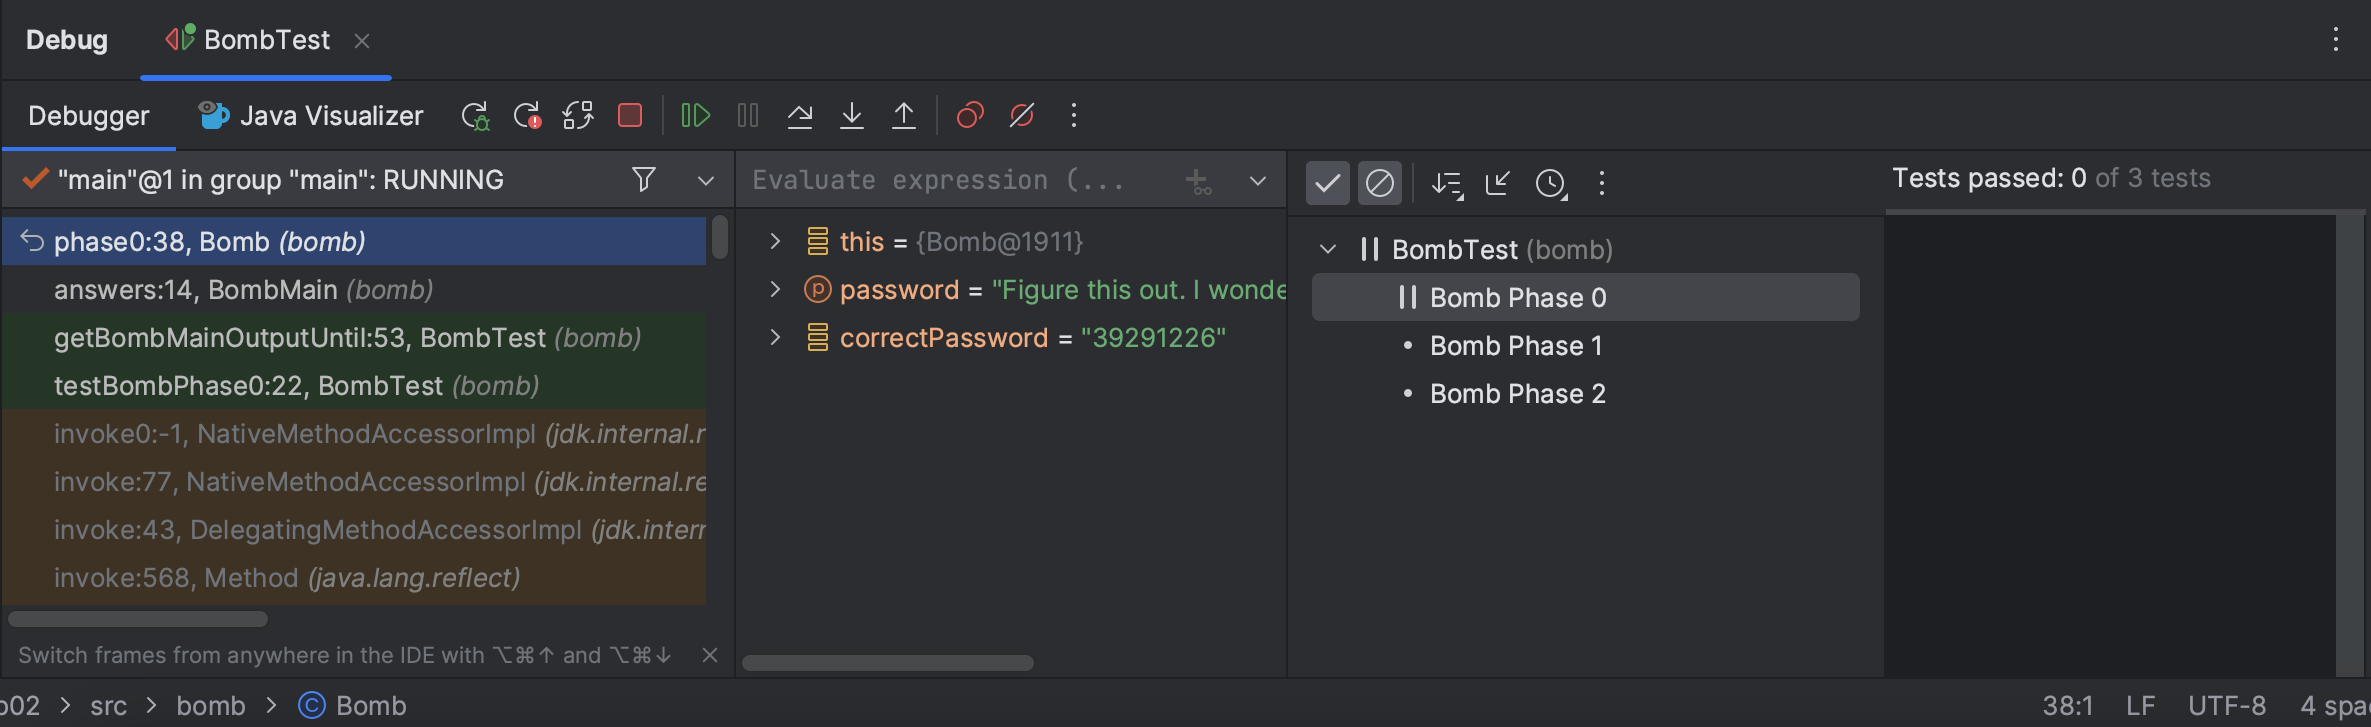
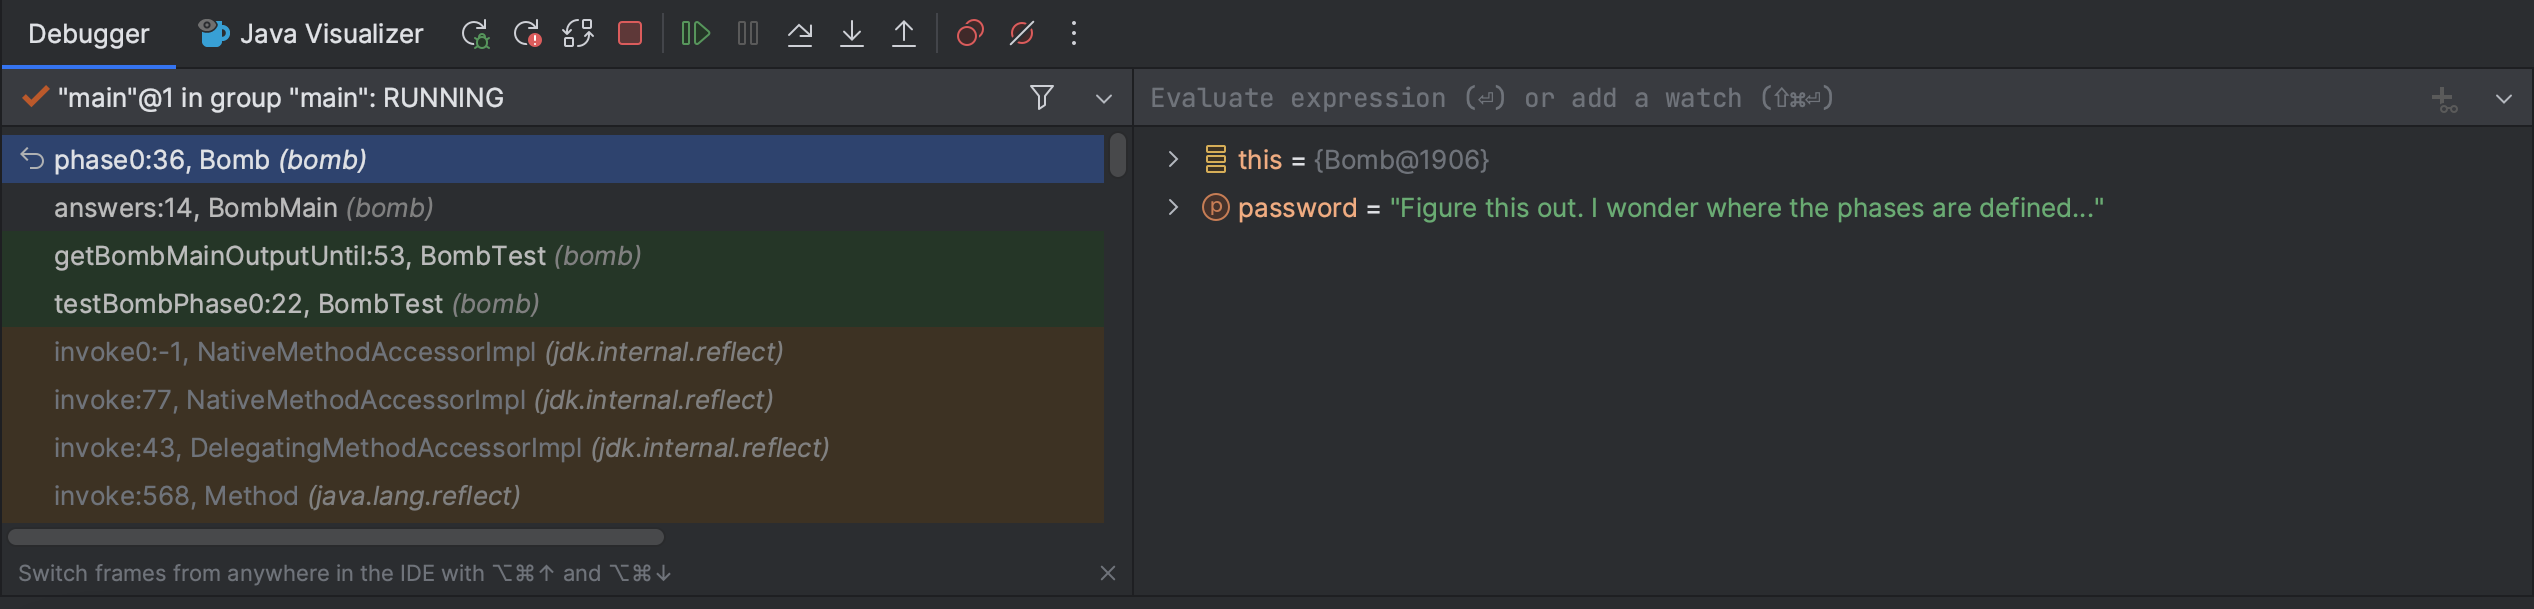
Update lab02 spec

diff --git a/labs/lab02/index.md b/labs/lab02/index.md
@@ -118,12 +118,12 @@ class or test you want to debug (in test files there may be two green triangles)
 Instead of clicking the green triangle to run, click the
 ![debug](img/debug.png){: .inline } debug option:
 
-[//]: # (![run debugger]&#40;img/run_debugger.png&#41;{: style="max-height: 325px;" })
+![run debugger](img/run_debugger.png){: style="max-height: 325px;" }
 
 The selected program should run until it hits its first breakpoint. A debugger
 window should also appear on the bottom of the interface, where the console was.
 
-[//]: # (![debugger session]&#40;img/debugger_session.png&#41;{: style="max-height: 325px;" })
+![debugger session](img/debugger_session.png){: style="max-height: 325px;" }
 
 On the left, you will be able to see all current method calls and on the right,
 you will be able to see the values of instantiated variables at this point in
